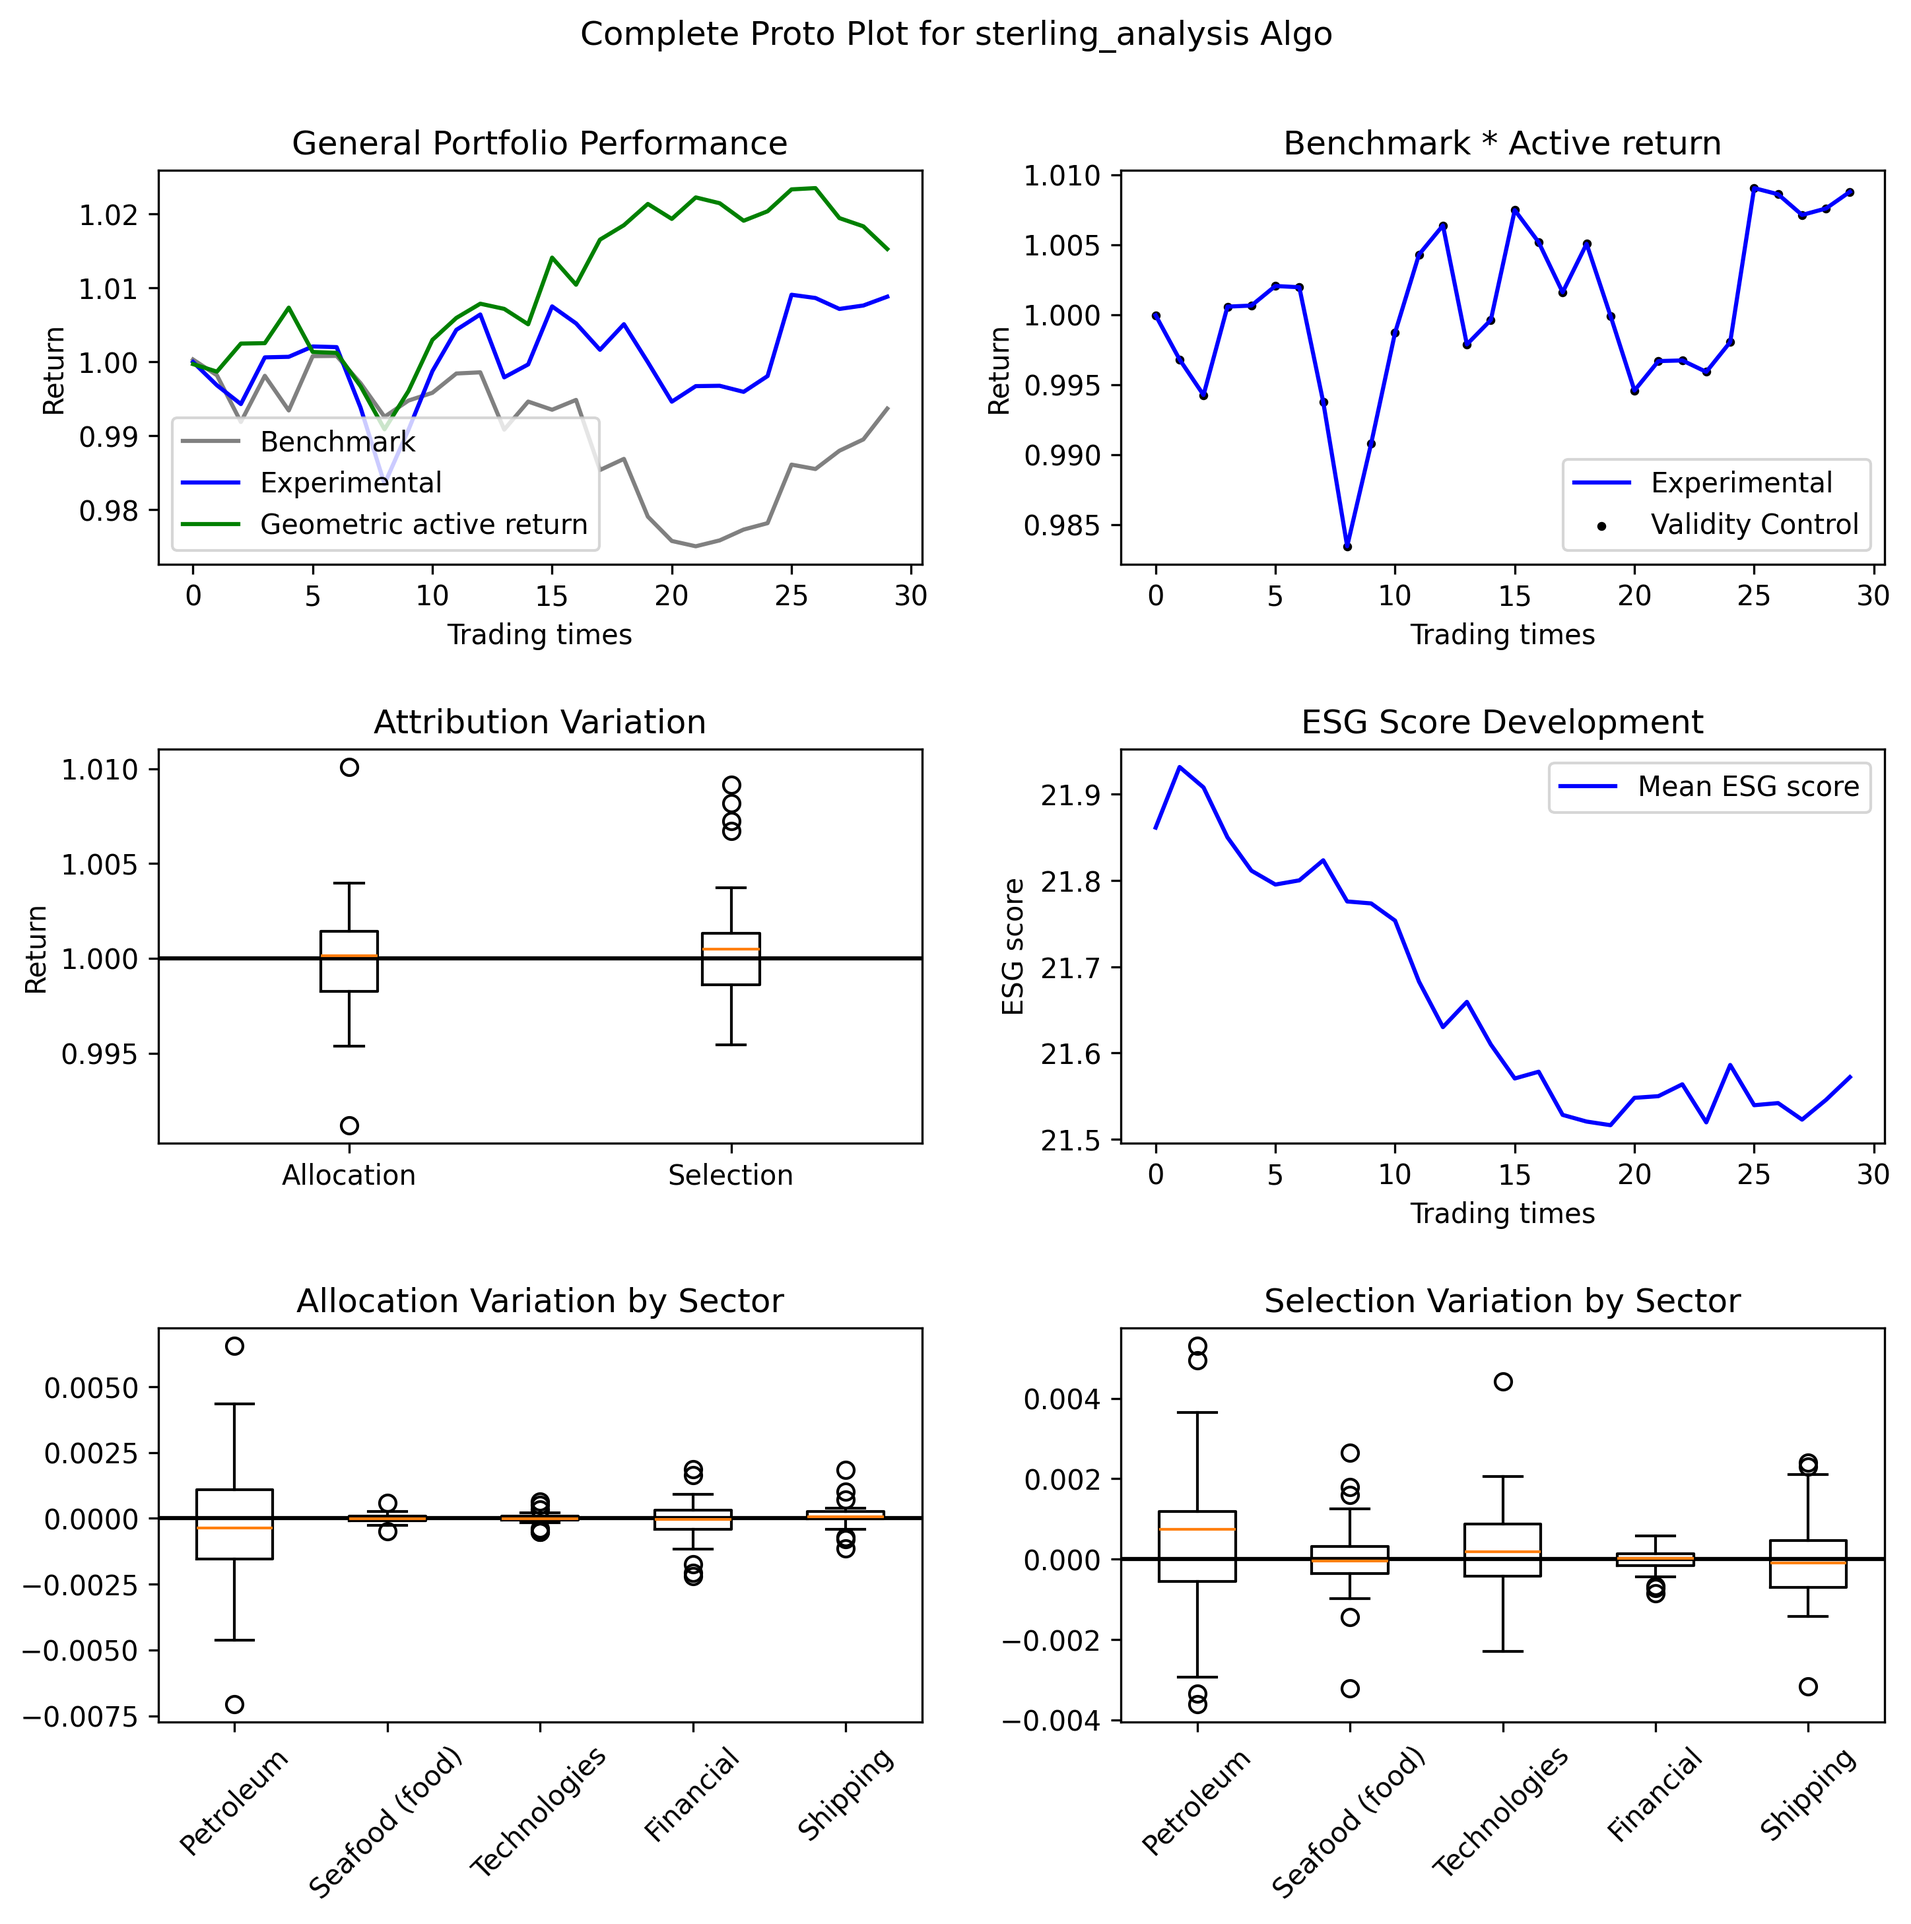
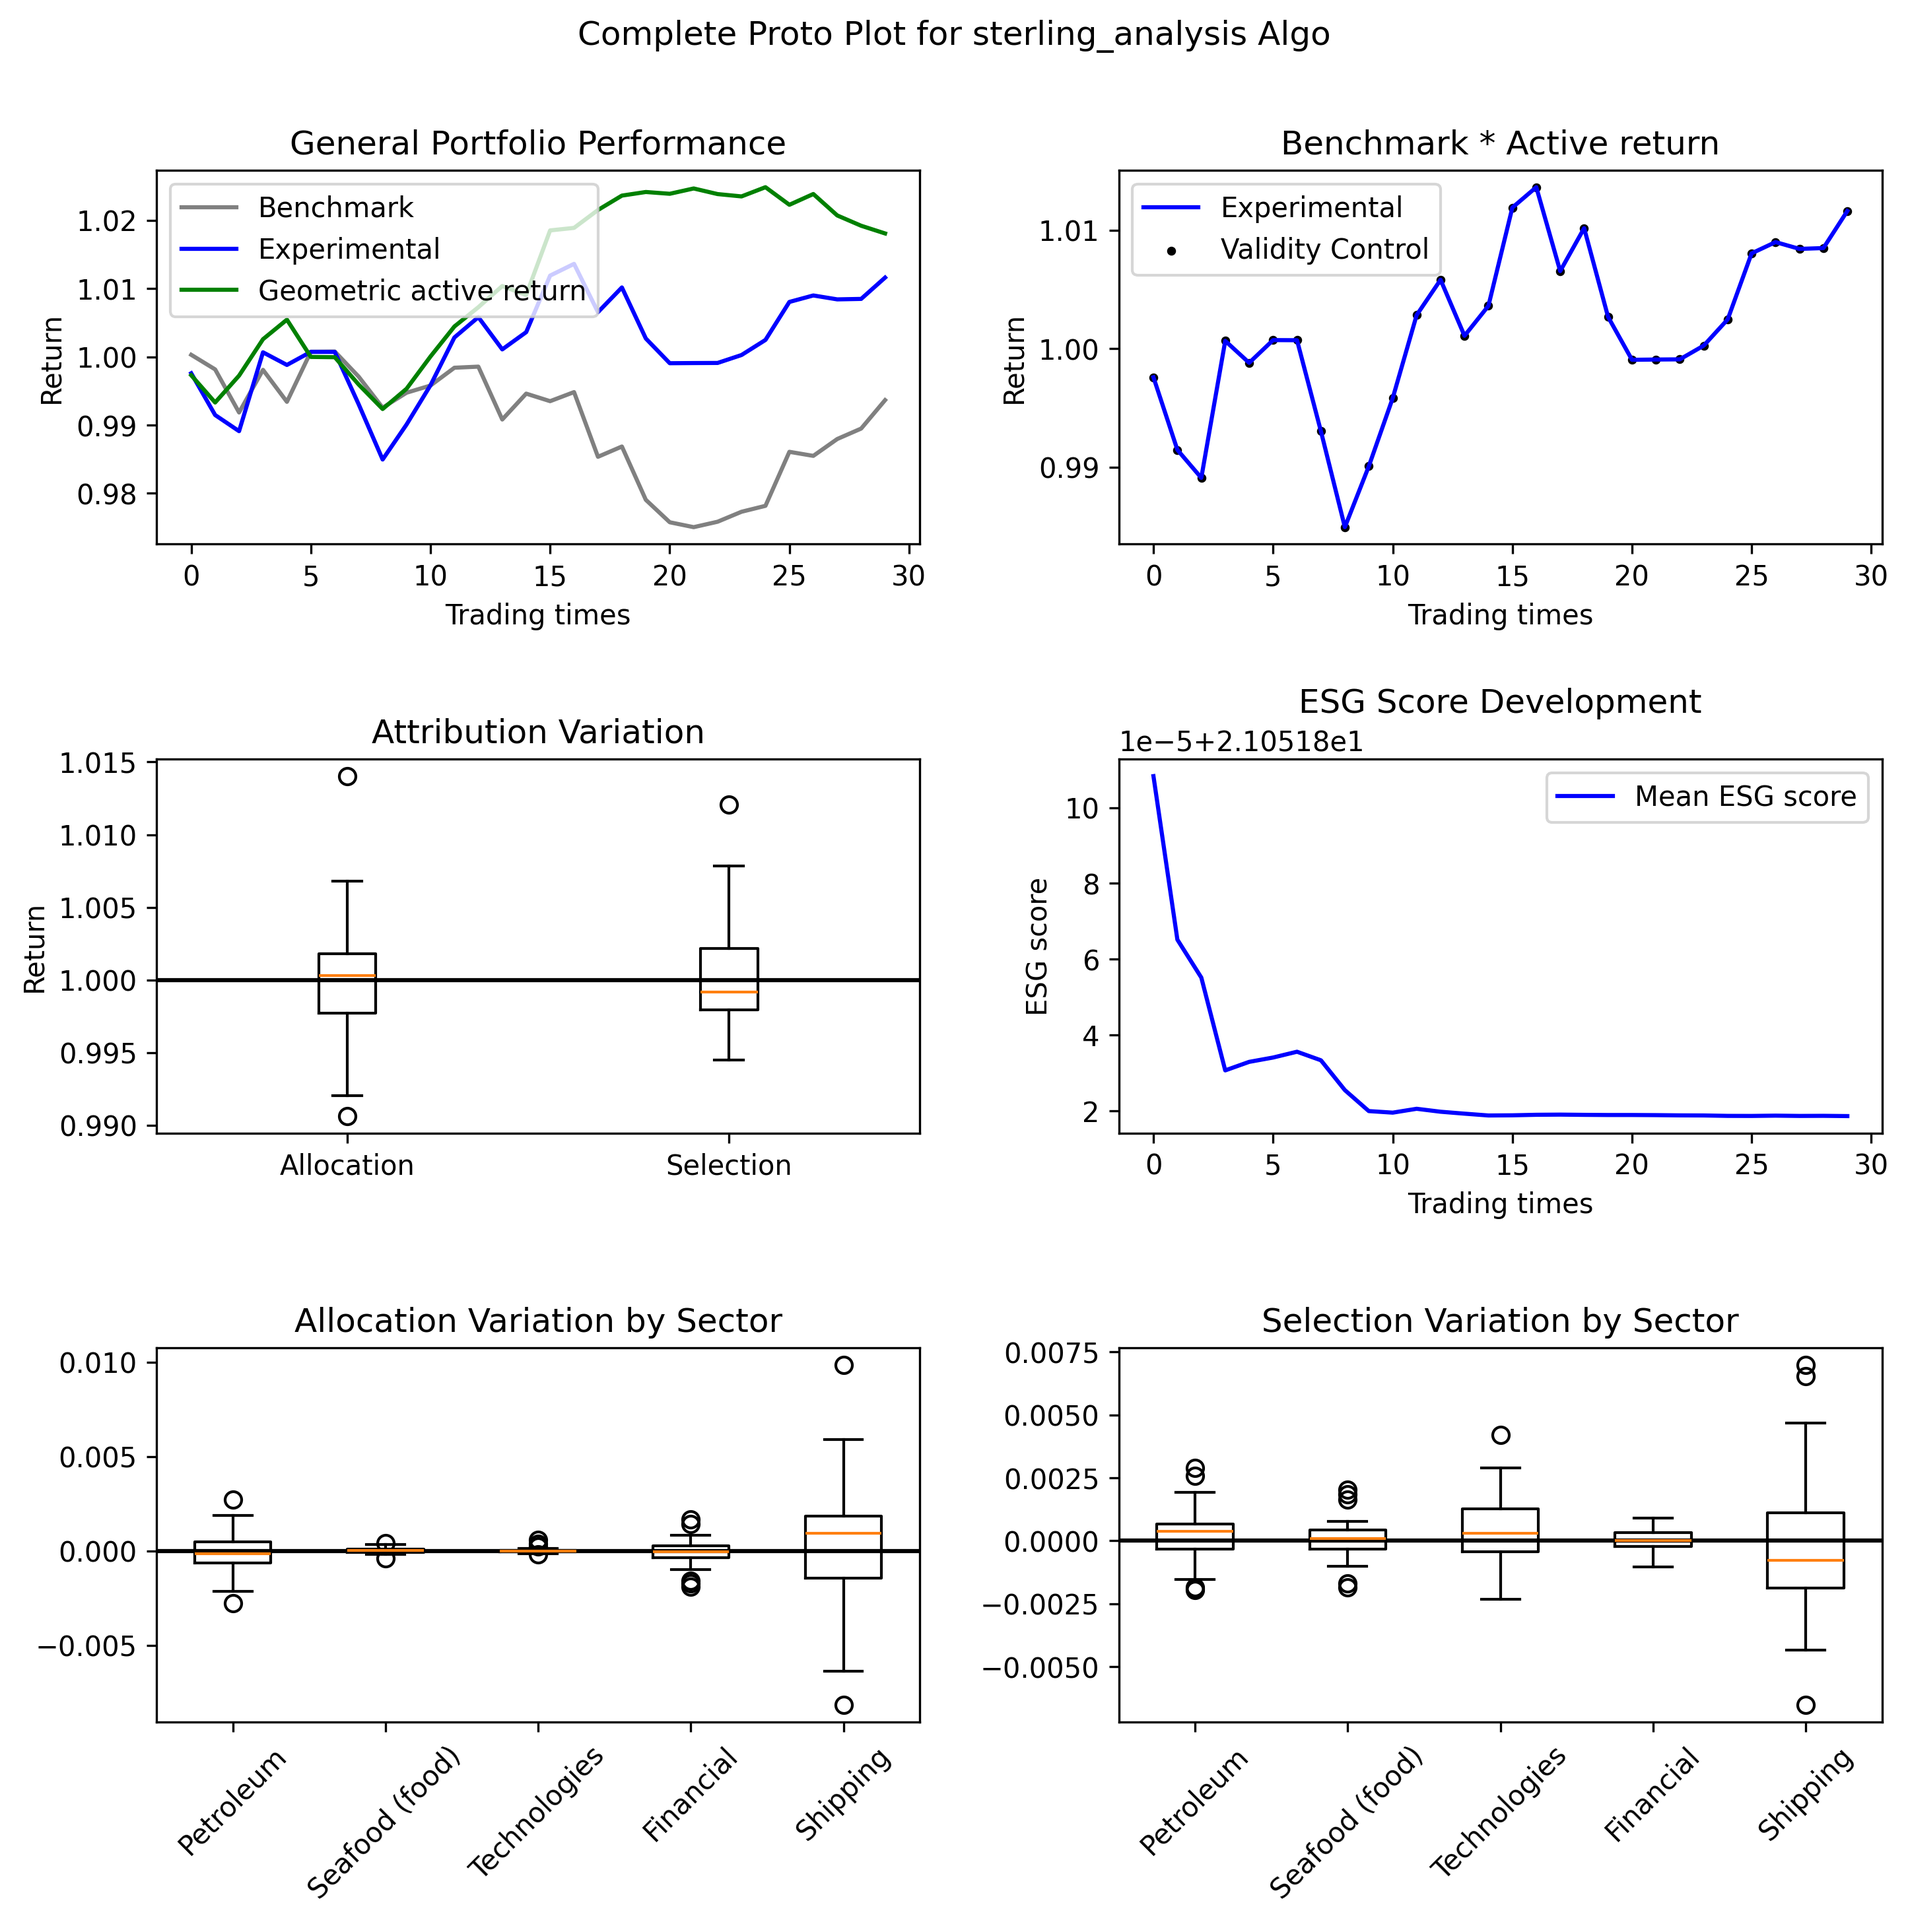
added a neural net to the SAC

diff --git a/src/RL_Algorithm/ThesisModel.py b/src/RL_Algorithm/ThesisModel.py
@@ -4,10 +4,13 @@ import numpy as np
 from stable_baselines3 import SAC
 from stable_baselines3.common.env_util import make_vec_env
 from stable_baselines3.common.vec_env import DummyVecEnv
+from torch.optim import Adam
 
 from sklearn.model_selection import train_test_split
 
 from RL_Algorithm.ThesisEnvironment_copy import PortfolioEnvironment as PorEnv
+from RL_Algorithm.NeuralNet import CustomNeuralNet as CusNN
+from RL_Algorithm.NeuralNet import CustomSACPolicy as CSACP
 
 class RL_Model():
     """
@@ -15,6 +18,7 @@ class RL_Model():
     """
     def __init__(self, esg_data, objective, window_size, total_timesteps):
         self.stock_prices = pd.read_csv("../Data/StockPrices.csv")
+        # self.stock_prices = self.stock_prices.iloc[1:]
         self.esg_data = esg_data
 
         self.train_data = None
@@ -42,11 +46,15 @@ class RL_Model():
 
         # Initialize the SAC model
         model = SAC(
-            policy="MlpPolicy",     # Policy type
-            policy_kwargs=dict(net_arch=[256, 256]),  # Larger network
-            env=train_env,                # Environment
+            policy=CSACP,
+            policy_kwargs={
+                "features_extractor_kwargs": {"features_dim": 256},
+                "optimizer_class": Adam,
+                # "optimizer_kwargs": {"eps": 1e-5},
+            },
+            env=train_env,
             verbose=1,              # Printing
-            learning_rate=0.001,     # Learning rate
+            # learning_rate=0.001,     # Learning rate
             buffer_size=50000,    # Memory usage
             batch_size=128,         # Batch size for training  (higher= stable updates and exploitation, and vice versa)
             ent_coef='auto',        # Entropy coefficient (higher=more exploration, and vice versa)
@@ -106,10 +114,3 @@ class RL_Model():
         weights_df.to_csv("../Data/RL_weights_"+self.objective+".csv", index=False)
 
         print("--RL weights successfully stored--")
-
-
-
-
-
-
-

diff --git a/src/RL_Algorithm/NeuralNet.py b/src/RL_Algorithm/NeuralNet.py
@@ -11,11 +11,16 @@ class CustomNeuralNet(BaseFeaturesExtractor):
         self.conv = nn.Sequential(
             nn.Conv1d(observation_space.shape[1], 32, kernel_size=6, padding=1),
             nn.ReLU(),
-            nn.maxPool1d(2),
+            nn.MaxPool1d(2),
         )
         self.lstm = nn.LSTM(32, 64, batch_first=True)
-        self.ff = nn.Sequential(
+        self.ff0 = nn.Sequential(
             nn.Linear(64, 128),
+            nn.ReLU(),
+            nn.Linear(128, features_dim)
+            )
+        self.ff1 = nn.Sequential(
+            nn.Linear(128, 256),
             nn.ReLU(),
             nn.Linear(128, features_dim)
             )

diff --git a/SupervisorMaterial/Environment_4_Assets_Habit.py b/SupervisorMaterial/Environment_4_Assets_Habit.py
@@ -135,7 +135,7 @@ class Env_4_Assets_Habit(Env):
         standard_normal_vector = np.random.normal(size = self.Num_Assets)
                       
         self.ret = self.cholesky_matrix @ standard_normal_vector 
-        
+
         self.ret = self.ret + self.return_mean
 
         self.wealth_in = self.wealth_out
